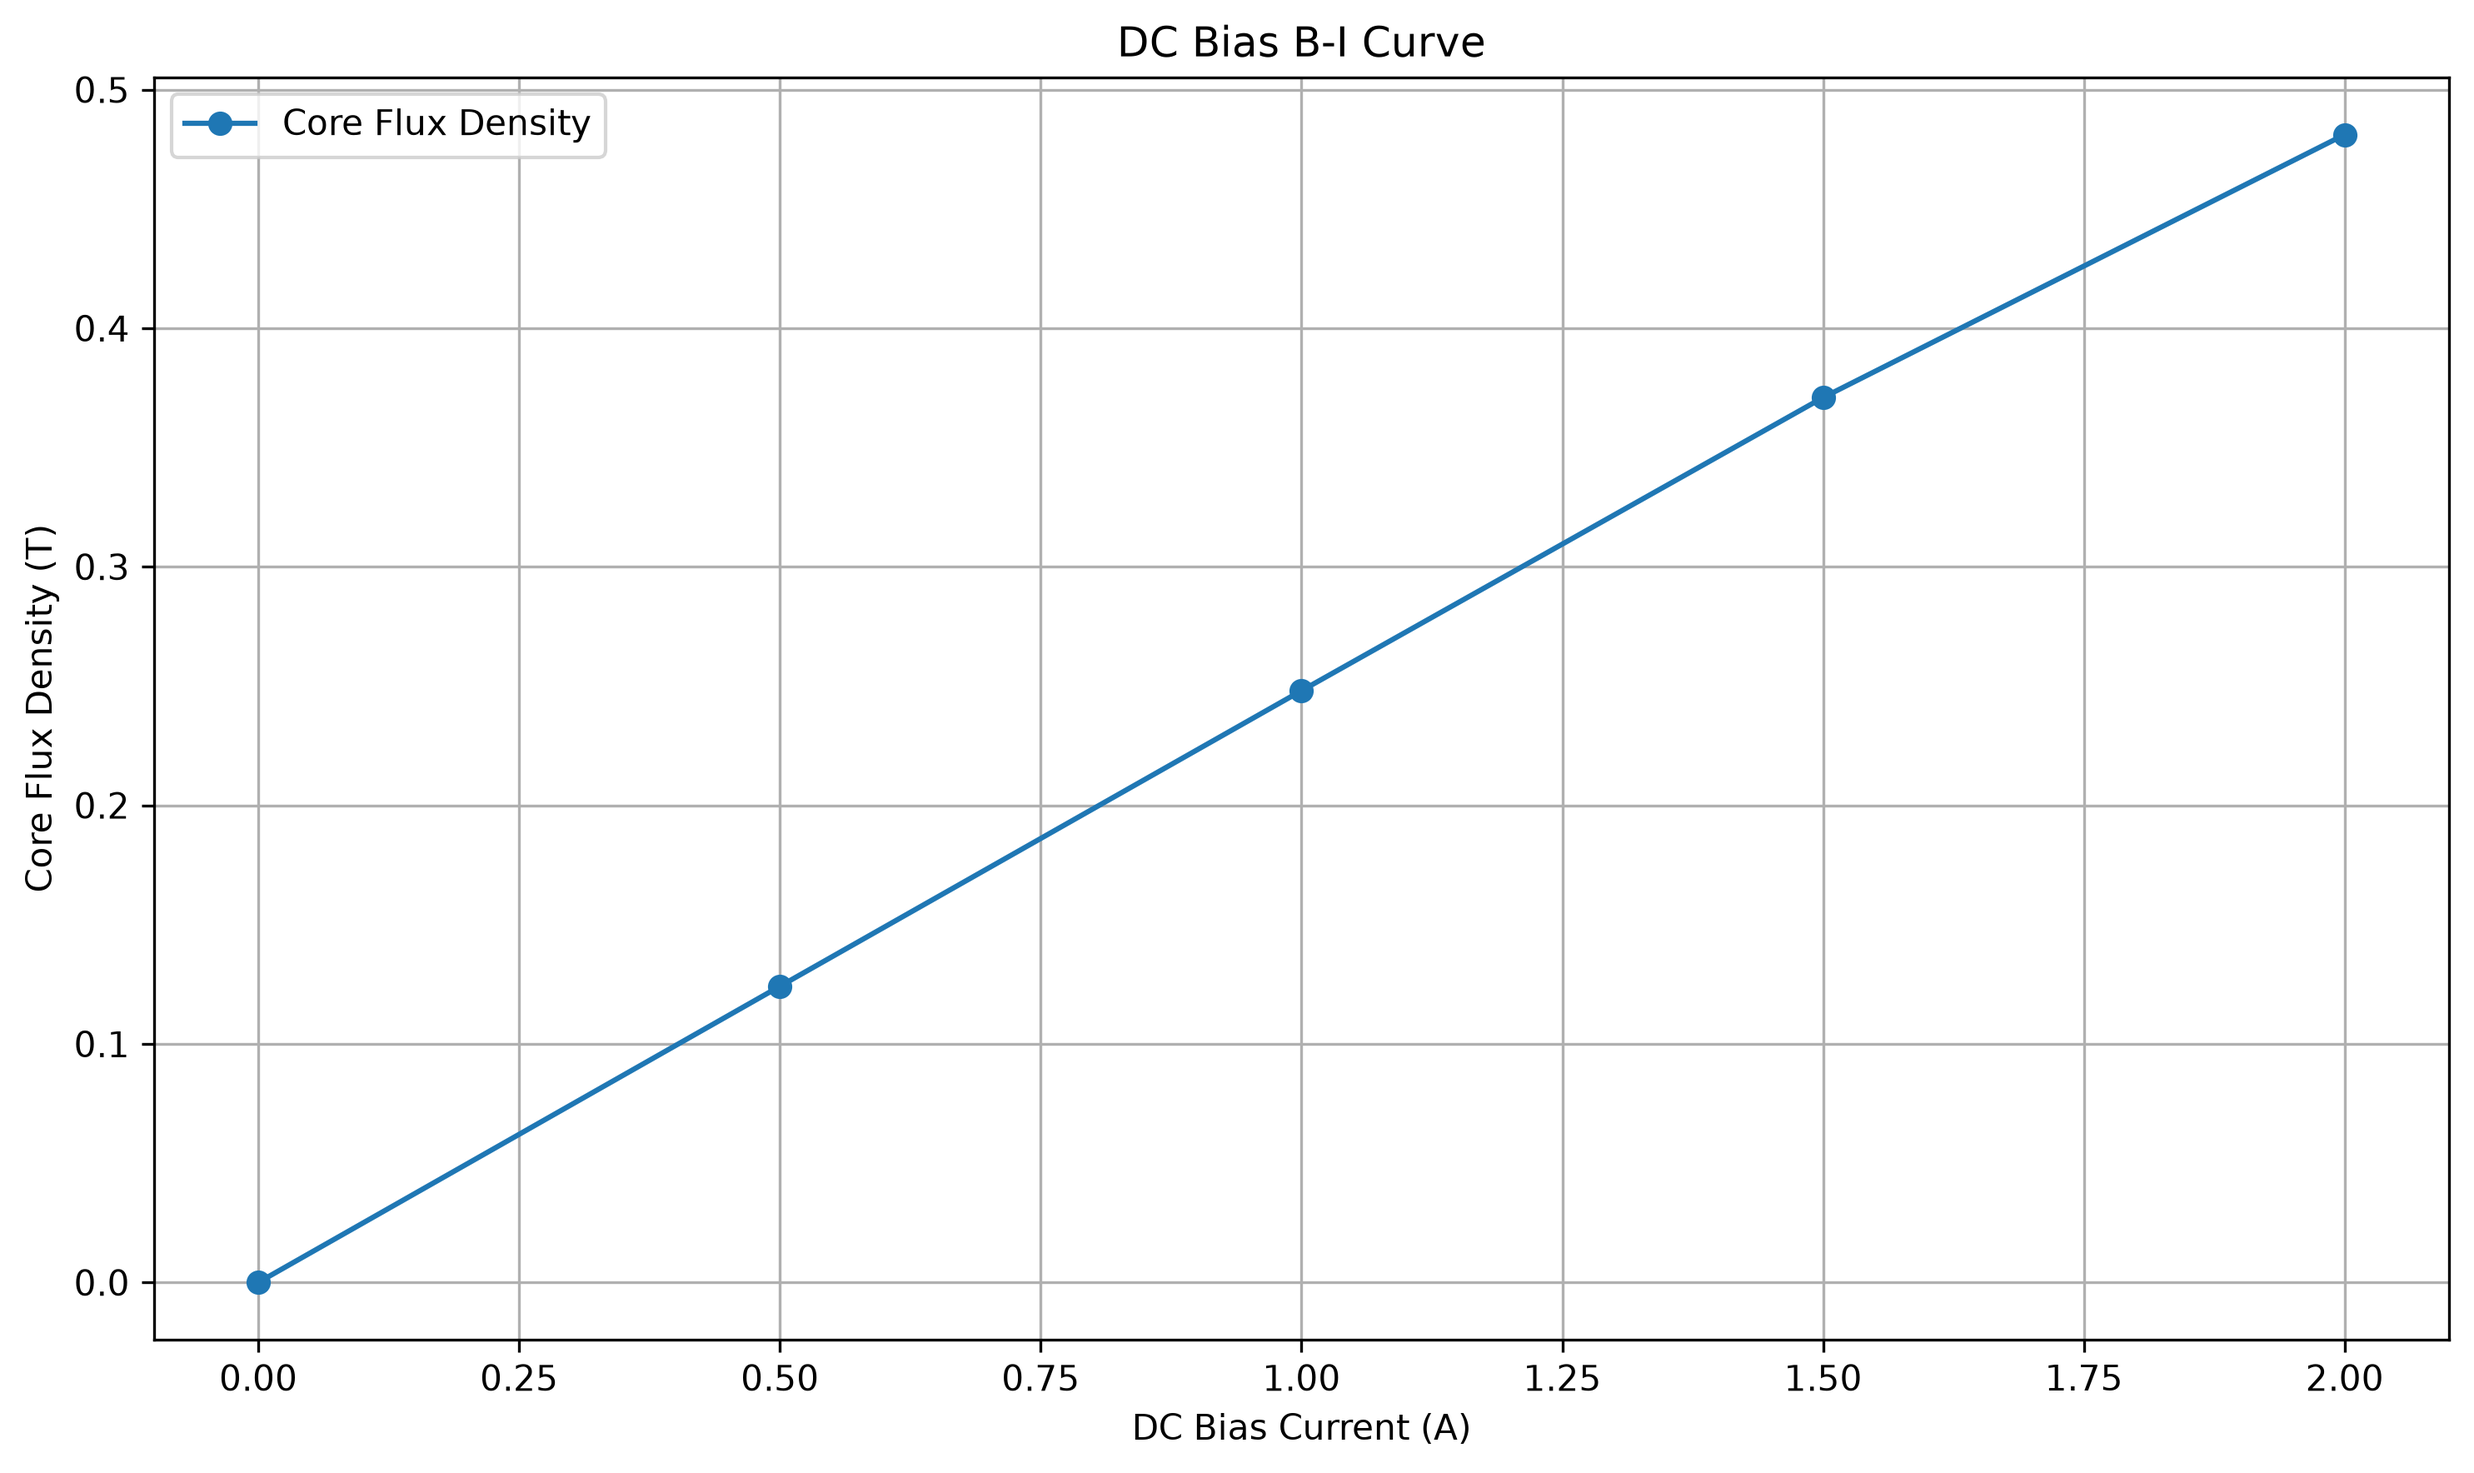
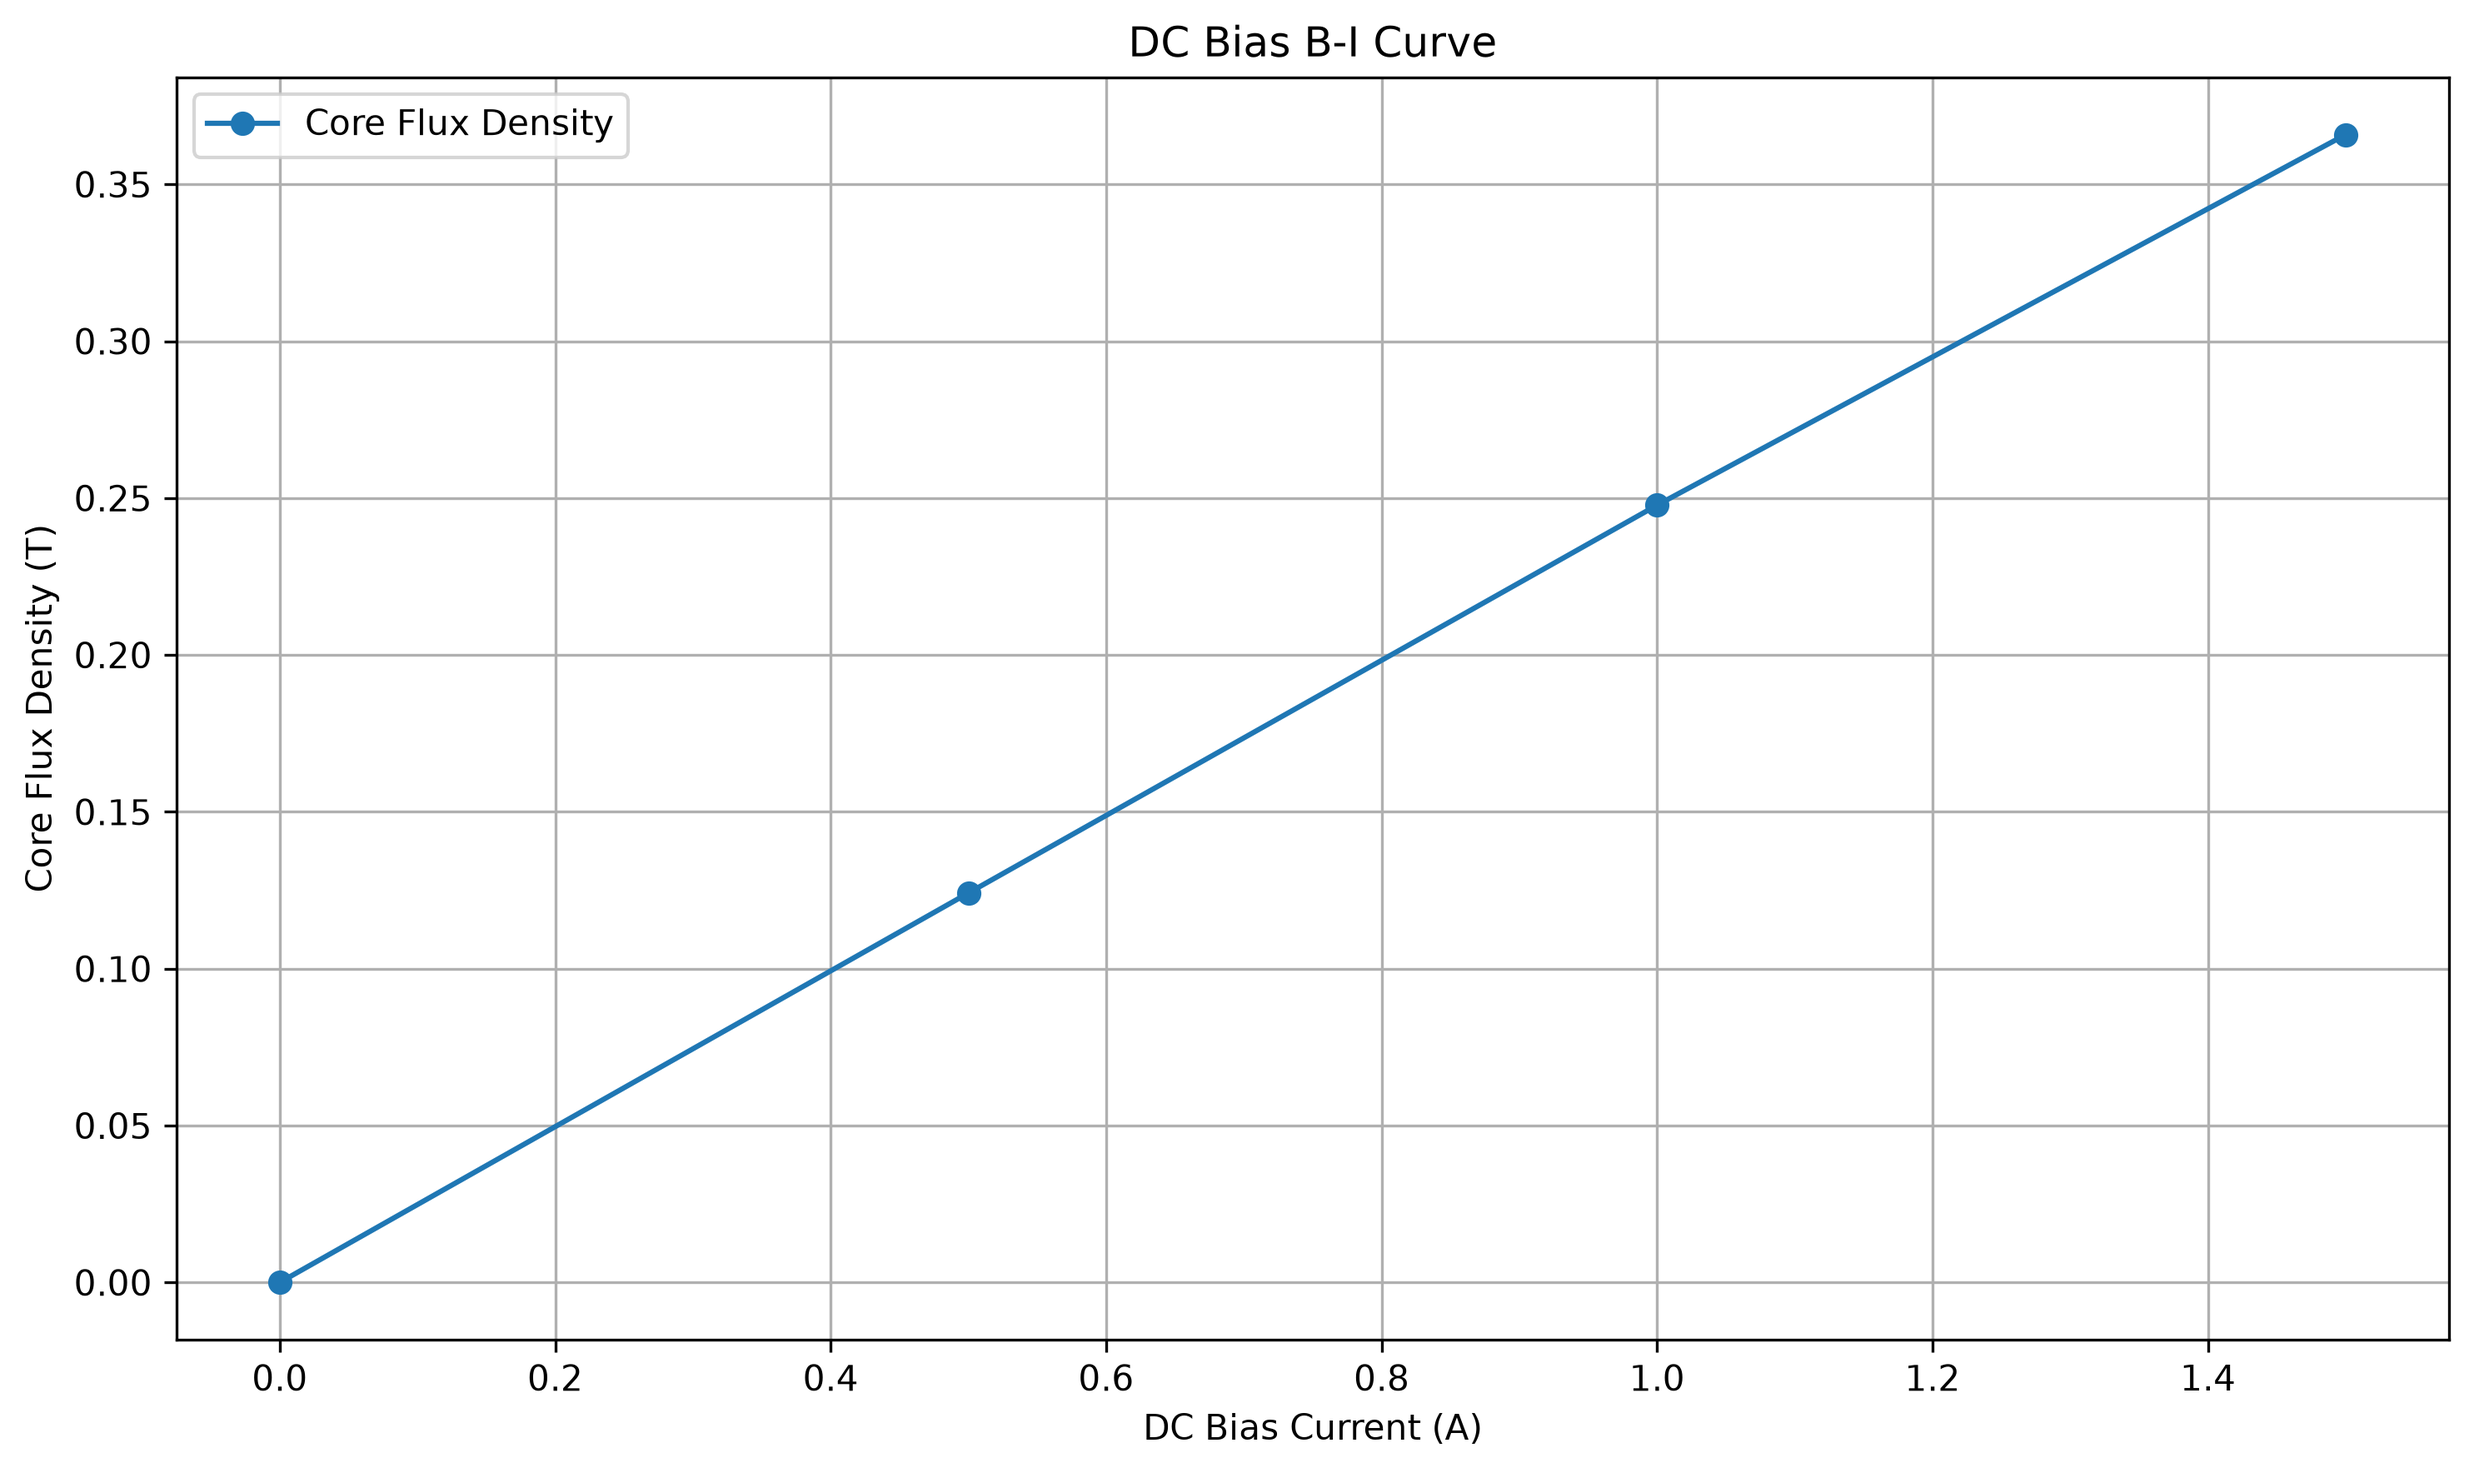
Add temperature-dependent DC bias comparison plots

diff --git a/peri_magnetics/models/bh_interpolation.py b/peri_magnetics/models/bh_interpolation.py
@@ -309,52 +309,62 @@ class BHInterpolator:
 
         return float((lower_H + upper_H) / 2.0)
 
+
     def check_flat_regions(self, temperature=25):
         """
-        B-H 데이터의 평탄 구간을 진단한다.
+        지정 온도의 B-H 보간 곡선에서 평탄 구간을 진단한다.
         """
+
         temperature, lower_temp, upper_temp = (
             self._get_temperature_pair(temperature)
         )
 
-        def find_flat_regions(temp):
-            B_data = self.curves[temp]["B"]
-            H_data = self.curves[temp]["H"]
+        # 해당 온도의 B-H 곡선 생성
+        H_data = self.curves[lower_temp]["H"]
+        B_lower = self.curves[lower_temp]["B"]
 
-            delta_B = np.diff(B_data)
-            flat_indices = np.where(delta_B == 0)[0]
+        if lower_temp == upper_temp:
+            B_data = B_lower
+        else:
+            B_upper = self.curves[upper_temp]["B"]
 
-            regions = []
-
-            if len(flat_indices) == 0:
-                return regions
-            start = flat_indices[0]
-            previous = flat_indices[0]
-
-            for index in flat_indices[1:]:
-                if index != previous + 1:
-                    regions.append({
-                        "B": float(B_data[start]),
-                        "H_start": float(H_data[start]),
-                        "H_end": float(H_data[previous + 1]),
-                        "data_count": int(previous + 2 - start)
-                    })
-                    start = index
-
-                previous = index
-
-            regions.append({
-                "B": float(B_data[start]),
-                "H_start": float(H_data[start]),
-                "H_end": float(H_data[previous + 1]),
-                "data_count": previous + 2 - start
-            })
-
-            return regions
-        return {
-            lower_temp: find_flat_regions(lower_temp),
-            **(
-                {upper_temp: find_flat_regions(upper_temp)}
-                if upper_temp != lower_temp else {}
+            weight = (
+                (temperature - lower_temp)
+                / (upper_temp - lower_temp)
             )
-        }
+
+            B_data = (
+                B_lower + weight * (B_upper - B_lower)
+            )
+
+        delta_B = np.diff(B_data)
+        flat_indices = np.where(delta_B == 0)[0]
+
+        regions = []
+
+        if len(flat_indices) == 0:
+            return {}
+
+        start = flat_indices[0]
+        previous = flat_indices[0]
+
+        for index in flat_indices[1:]:
+            if index != previous + 1:
+                regions.append({
+                    "B": float(B_data[start]),
+                    "H_start": float(H_data[start]),
+                    "H_end": float(H_data[previous + 1]),
+                    "data_count": int(previous + 2 - start)
+                })
+                start = index
+
+            previous = index
+
+        regions.append({
+            "B": float(B_data[start]),
+            "H_start": float(H_data[start]),
+            "H_end": float(H_data[previous + 1]),
+            "data_count": int(previous + 2 - start)
+        })
+
+        return {temperature: regions}

diff --git a/peri_magnetics/models/plot_dc_bias.py b/peri_magnetics/models/plot_dc_bias.py
@@ -9,23 +9,40 @@ from peri_magnetics.models.magnetic_circuit import MagneticCircuit
 bh = BHInterpolator()
 mc = MagneticCircuit(bh)
 
+# DC Bias 해석 온도 목록
+temperatures = [25, 50, 75, 100]
 
-# DC Bias 해석 조건
-dc_results = mc.calculate_dc_bias_curve(
-    turns=100,
-    core_length=0.02,
-    gap_length=0.0005,
-    core_area=25e-6,
-    gap_area=25e-6,
-    current_start=0.0,
-    current_end=2.0,
-    current_step=0.5,
-    temperature=25,
-    delta_current=0.0001,
-    tolerance=1e-6,
-    max_iterations=150
-)
+# 온도별 DC Bias 해석
+temperature_results = {}
 
+for temp in temperatures:
+    print(f"\n===== {temp}℃ DC Bias 해석 =====")
+
+    dc_results = mc.calculate_dc_bias_curve(
+        turns=100,
+        core_length=0.02,
+        gap_length=0.0005,
+        core_area=25e-6,
+        gap_area=25e-6,
+        current_start=0.0,
+        current_end=2.0,
+        current_step=0.5,
+        temperature=temp,
+        delta_current=0.0001,
+        tolerance=1e-6,
+        max_iterations=150
+    )
+
+    temperature_results[temp] = dc_results
+
+# 온도별 DC Bias 결과 추출
+temperature_data = {}
+
+for temp, results in temperature_results.items():
+    temperature_data[temp] = [
+        row for row in results
+        if row["status"] == "success"
+    ]
 
 # 결과 데이터 추출
 valid_results = [
@@ -128,6 +145,72 @@ plt.tight_layout()
 
 plt.savefig(
     "peri_magnetics/results/dc_bias_validation_error.png",
+    dpi=300,
+    bbox_inches="tight"
+)
+
+plt.show()
+# 온도별 DC Bias L-I 비교 그래프
+plt.figure(figsize=(10, 6))
+
+for temp, results in temperature_data.items():
+    currents_temp = [
+        row["current"] for row in results
+    ]
+
+    L_diff_temp = [
+        row["L_diff"] * 1e6 for row in results
+    ]
+
+    plt.plot(
+        currents_temp,
+        L_diff_temp,
+        marker="o",
+        label=f"{temp}℃"
+    )
+
+plt.xlabel("DC Bias Current (A)")
+plt.ylabel("Differential Inductance (uH)")
+plt.title("Temperature-dependent DC Bias L-I Curves")
+plt.grid(True)
+plt.legend()
+plt.tight_layout()
+
+plt.savefig(
+    "peri_magnetics/results/temperature_dc_bias_LI.png",
+    dpi=300,
+    bbox_inches="tight"
+)
+
+plt.show()
+# 온도별 DC Bias B-I 비교 그래프
+plt.figure(figsize=(10, 6))
+
+for temp, results in temperature_data.items():
+    currents_temp = [
+        row["current"] for row in results
+    ]
+
+    B_core_temp = [
+        row["B_core"] for row in results
+    ]
+
+    plt.plot(
+        currents_temp,
+        B_core_temp,
+        marker="o",
+        label=f"{temp}℃"
+    )
+
+plt.xlabel("DC Bias Current (A)")
+plt.ylabel("Core Flux Density (T)")
+plt.title("Temperature-dependent DC Bias B-I Curves")
+plt.grid(True)
+plt.legend()
+plt.tight_layout()
+
+plt.savefig(
+    "peri_magnetics/results/temperature_dc_bias_BI.png",
     dpi=300,
     bbox_inches="tight"
 )
